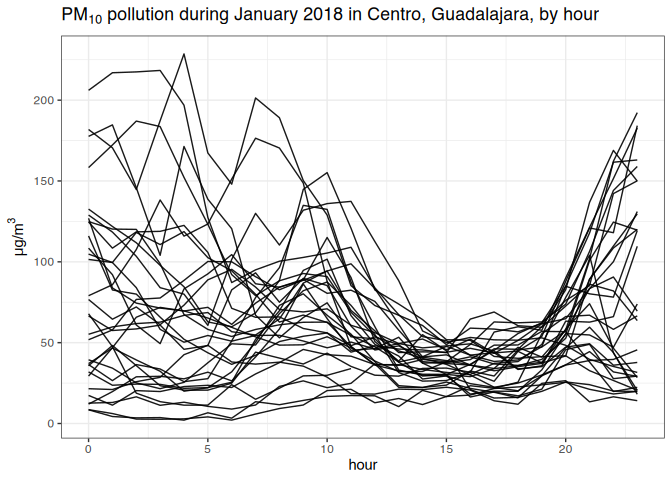
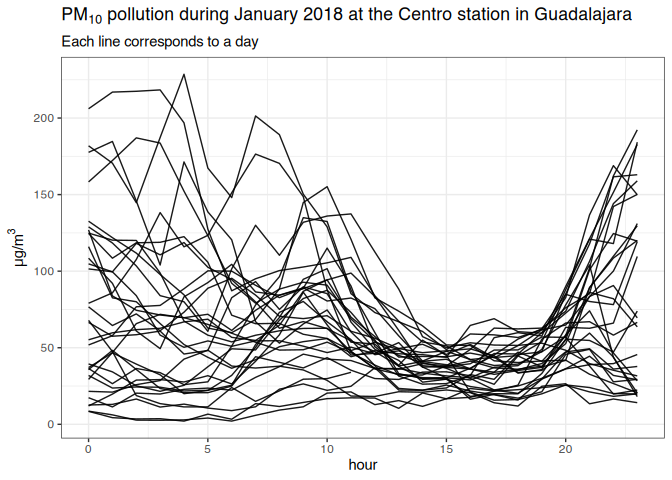
Upgrade docs to use bootstrap 5

diff --git a/README.md b/README.md
@@ -12,16 +12,15 @@ Status](https://img.shields.io/codecov/c/github/diegovalle/rsinaica/master.svg)]
 <img src="vignettes/header.png" alt="" width="100%" />
 
 Easy-to-use functions for downloading air quality data from the Mexican
-National Air Quality Information System (SINAICA). With this R package
-you can download pollution and meteorological parameters from the more
-than a hundred monitoring stations located throughout Mexico. The
-package allows you to query for crude real-time air quality data,
-validated data, or manually collected data.
+National Air Quality Information System (SINAICA). This R package allows
+you to download pollution and meteorological data from more than one
+hundred monitoring stations across Mexico. You can query crude real-time
+data, validated data, or manually collected data.
 
 ## Installation
 
 To install the most recent package version from
-[CRAN](https://cran.r-project.org/package=rsinaica) type:
+[CRAN](https://cran.r-project.org/package=rsinaica), run:
 
 ``` r
 install.packages("rsinaica")
@@ -38,9 +37,9 @@ devtools::install_github("diegovalle/rsinaica")
 
 ## Example
 
-Suppose you wanted to download pollution data from the *Centro* station
-in Guadalajara. First, we load the necessary packages and look up the
-numeric code for the station in the `stations_sinaica` data.frame:
+Suppose you want to download pollution data from the *Centro* station in
+Guadalajara. First, load the required packages and look up the station’s
+numeric code in the `stations_sinaica` data.frame:
 
 ``` r
 ## Auto-install required R packages
@@ -61,11 +60,11 @@ knitr::kable(stations_sinaica[which(stations_sinaica$station_name == "Centro"), 
 | 30 | 102 | Centro | CEN | 63 | Guadalajara | GDL |
 | 31 | 170 | Centro | CEN | 78 | Zona Metropolitana de Querétaro | ZMQ |
 
-It looks like there are three stations named Centro, the one we are
-looking for is the one in Guadalajara with a numeric code (station_id)
-of 102. The `stations_sinaica` data.frame also includes the latitude and
-longitude of all the measuring stations in Mexico (including some that
-have never reported any data!).
+There are three stations named Centro. The one we want is located in
+Guadalajara and has a numeric code (station_id) of 102. The
+`stations_sinaica` data.frame also includes the latitude and longitude
+of all monitoring stations in Mexico (including some that have never
+reported data)..
 
 ``` r
 mx <- map_data("world", "Mexico")
@@ -86,20 +85,20 @@ ggplot(stations_sinaica[order(stations_sinaica$color, decreasing = TRUE),], aes(
 
 <img src="man/figures/README-unnamed-chunk-3-1.png" alt="" width="100%" />
 
-Then we query the start and end dates for which SINAICA has received
-data from the station:
+Next, query the start and end dates for which SINAICA has received data
+from this station:
 
 ``` r
 sinaica_station_dates(102)
 #> [1] "1997-01-01" "2026-03-02"
 ```
 
-It’s currently reporting data (this document was built on 2026-03-02),
-and has been doing so since 1997. We can also query which type of
-parameters (pollution, wind, solar radiation, etc) the station has
-sensors for. Note that the package also includes a `parameters`
-data.frame with the complete set of supported parameters, but not all
-stations support all of them.
+The station is currently reporting data (this document was built on
+2026-03-02), and it has been active since 1997. You can also query which
+parameters (pollution, wind, solar radiation, etc.) the station
+measures. the station has sensors for. The package also includes a
+`parameters` data.frame containing the complete set of supported
+parameters; however, not all stations report all of them.
 
 ``` r
 cen_params <- sinaica_station_params(102)
@@ -127,24 +126,25 @@ knitr::kable(cen_params)
 | TMPI       | Temperatura interior             |
 | VV         | Velocidad del viento             |
 
-Finally, we can download and plot hourly concentrations of particulate
-matter with a diameter smaller than 10 micrometers (μm)
-(PM<sub>10</sub>) during the month of January.
+Finally, download and plot hourly concentrations of particulate matter
+with a diameter smaller than 10 micrometers (μm) (PM<sub>10</sub>), for
+the month of January.
 
 ``` r
 # Download all PM10 data for January 2018
 df <-  sinaica_station_data(102, # station_id
                          "PM10", # can be one of parameters$parameter_code
                          "2018-01-01", 
-                         "2018-01-31", # Maximum delta between start_date and  
-                                       # end_Date of 2 years
+                         "2018-01-31",
                          "Crude" # Crude, Manual or Validated
                          )
 
 ggplot(df, aes(hour, value, group = date)) +
   geom_line(alpha=.9) +
   ggtitle(expression(paste(PM[10],
-                           " pollution during January 2018 in Centro, Guadalajara, by hour"))) +
+                           " pollution during January 2018 at the",
+                           " Centro station in Guadalajara"))) +
+  labs(subtitle="Each line corresponds to a day") +
   xlab("hour") +
   ylab(expression(paste(mu,"g/", m^3))) +
   theme_bw()
@@ -152,8 +152,8 @@ ggplot(df, aes(hour, value, group = date)) +
 
 <img src="man/figures/README-unnamed-chunk-6-1.png" alt="" width="100%" />
 
-the hours are in the local Guadalajara time zone of UTC-6 since we
-plotted January data.
+The hours are shown in the local Guadalajara time zone (UTC−6), since we
+plotted January 2018 data.
 
 ``` r
 stations_sinaica$timezone[which(stations_sinaica$station_id == 102)]
